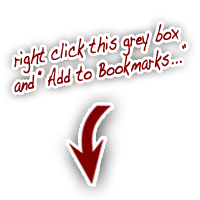
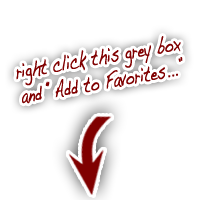
fixed IE8 issue where the helper arrow covered the link, causing people to bookmark the website rather than the bookmarklet

Changed region(s): [[0.03, 0.09, 0.93, 0.99]]

diff --git a/stylesheets/main.css b/stylesheets/main.css
@@ -309,9 +309,9 @@ a:hover .helper-arrow {
     display: block;
 }
 
-a:hover .arrow-on-msie {
+a:hover .arrow-on-other {
     position: absolute;
-    top: -185px;
+    top: -205px;
     left: -25px;
     background-image: url(../images/arrow-rightclick.png);
 }
